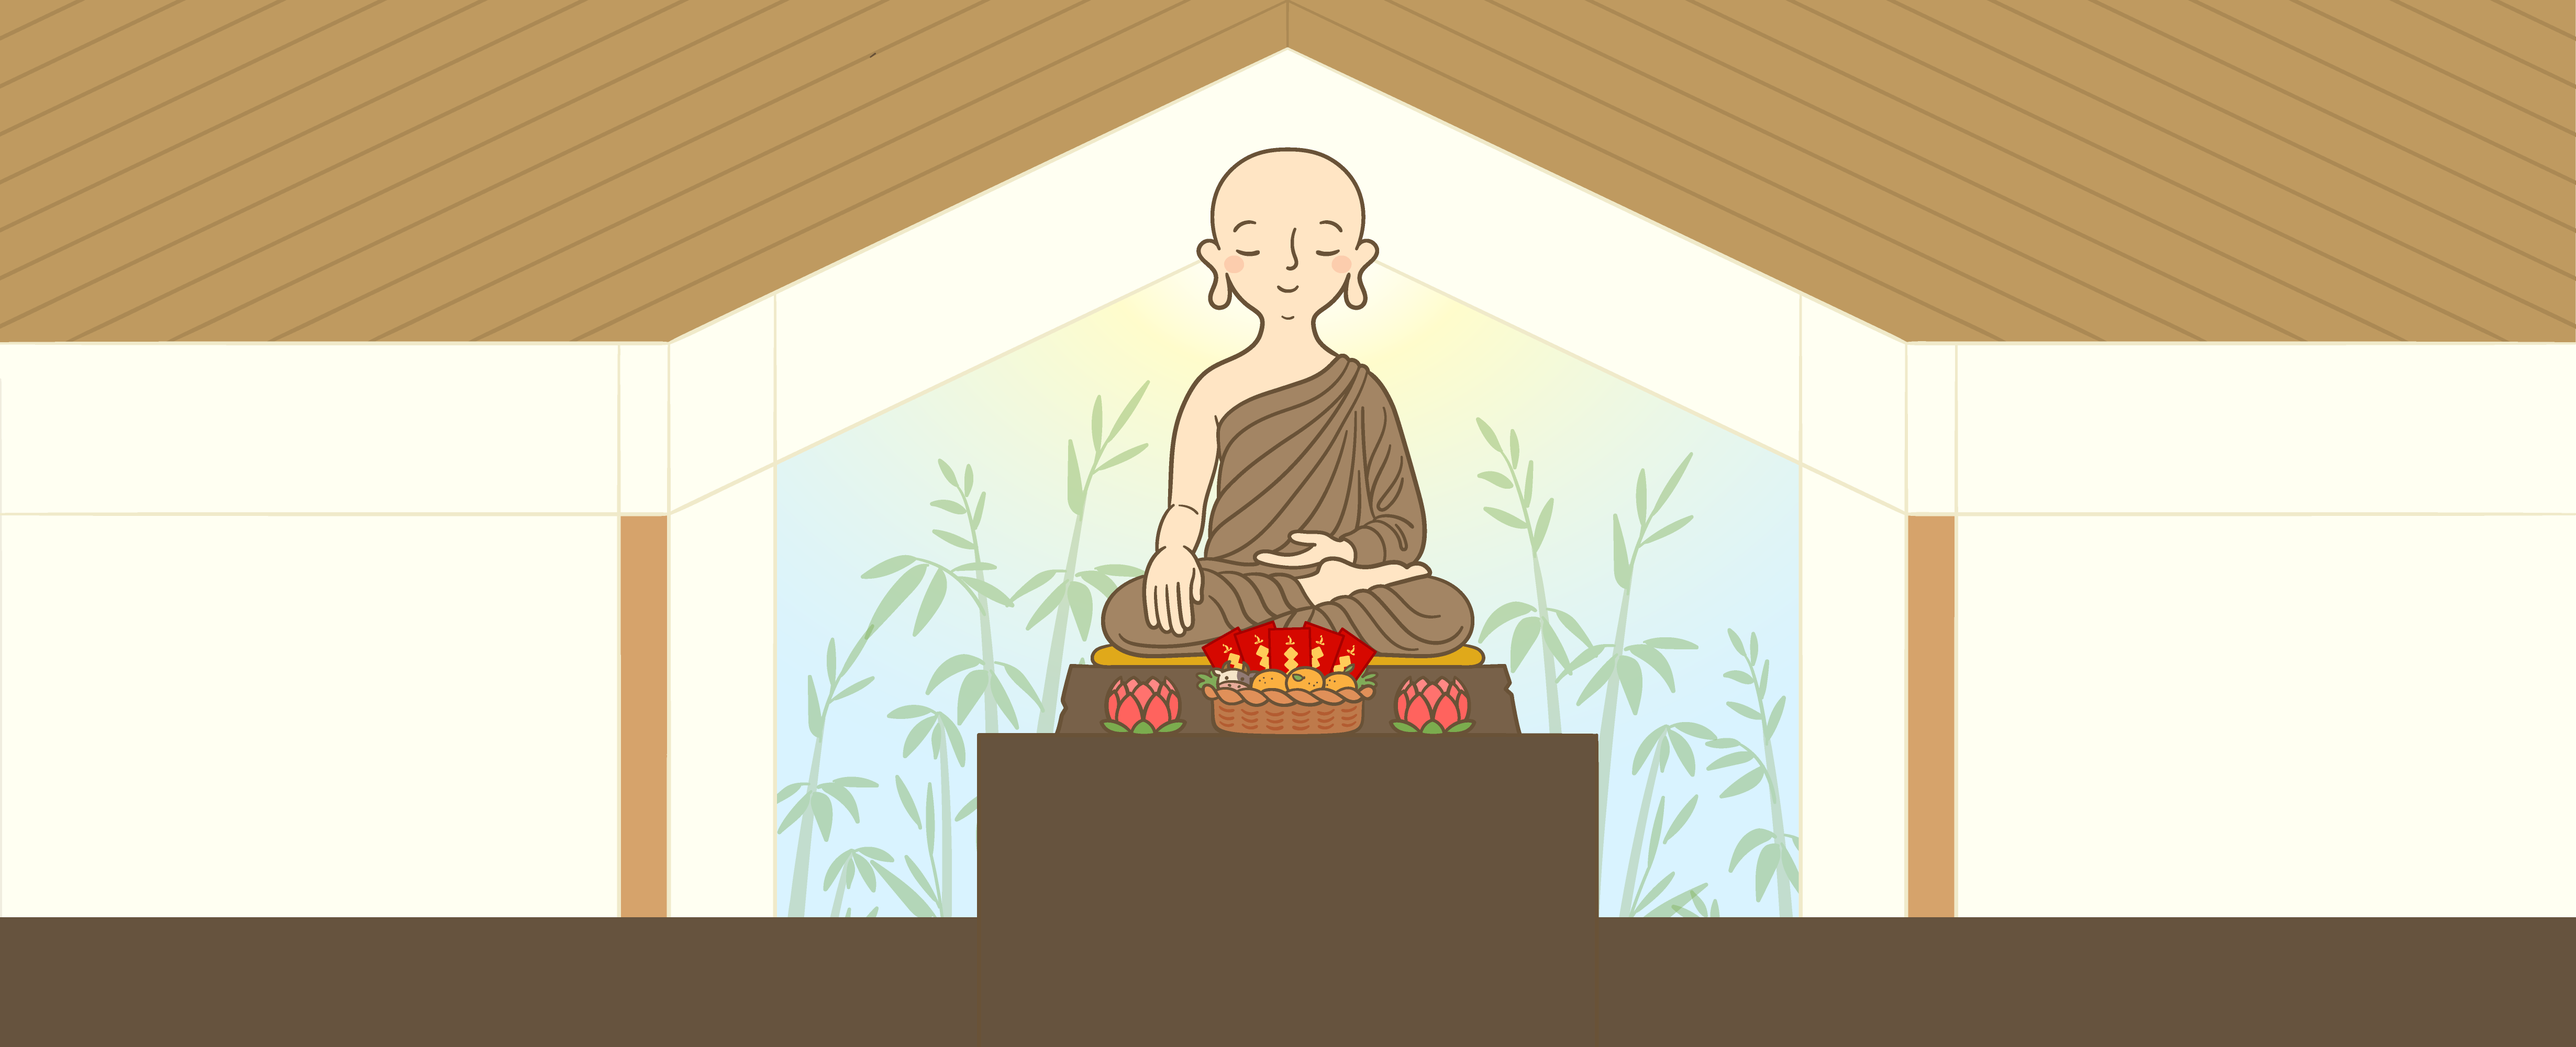
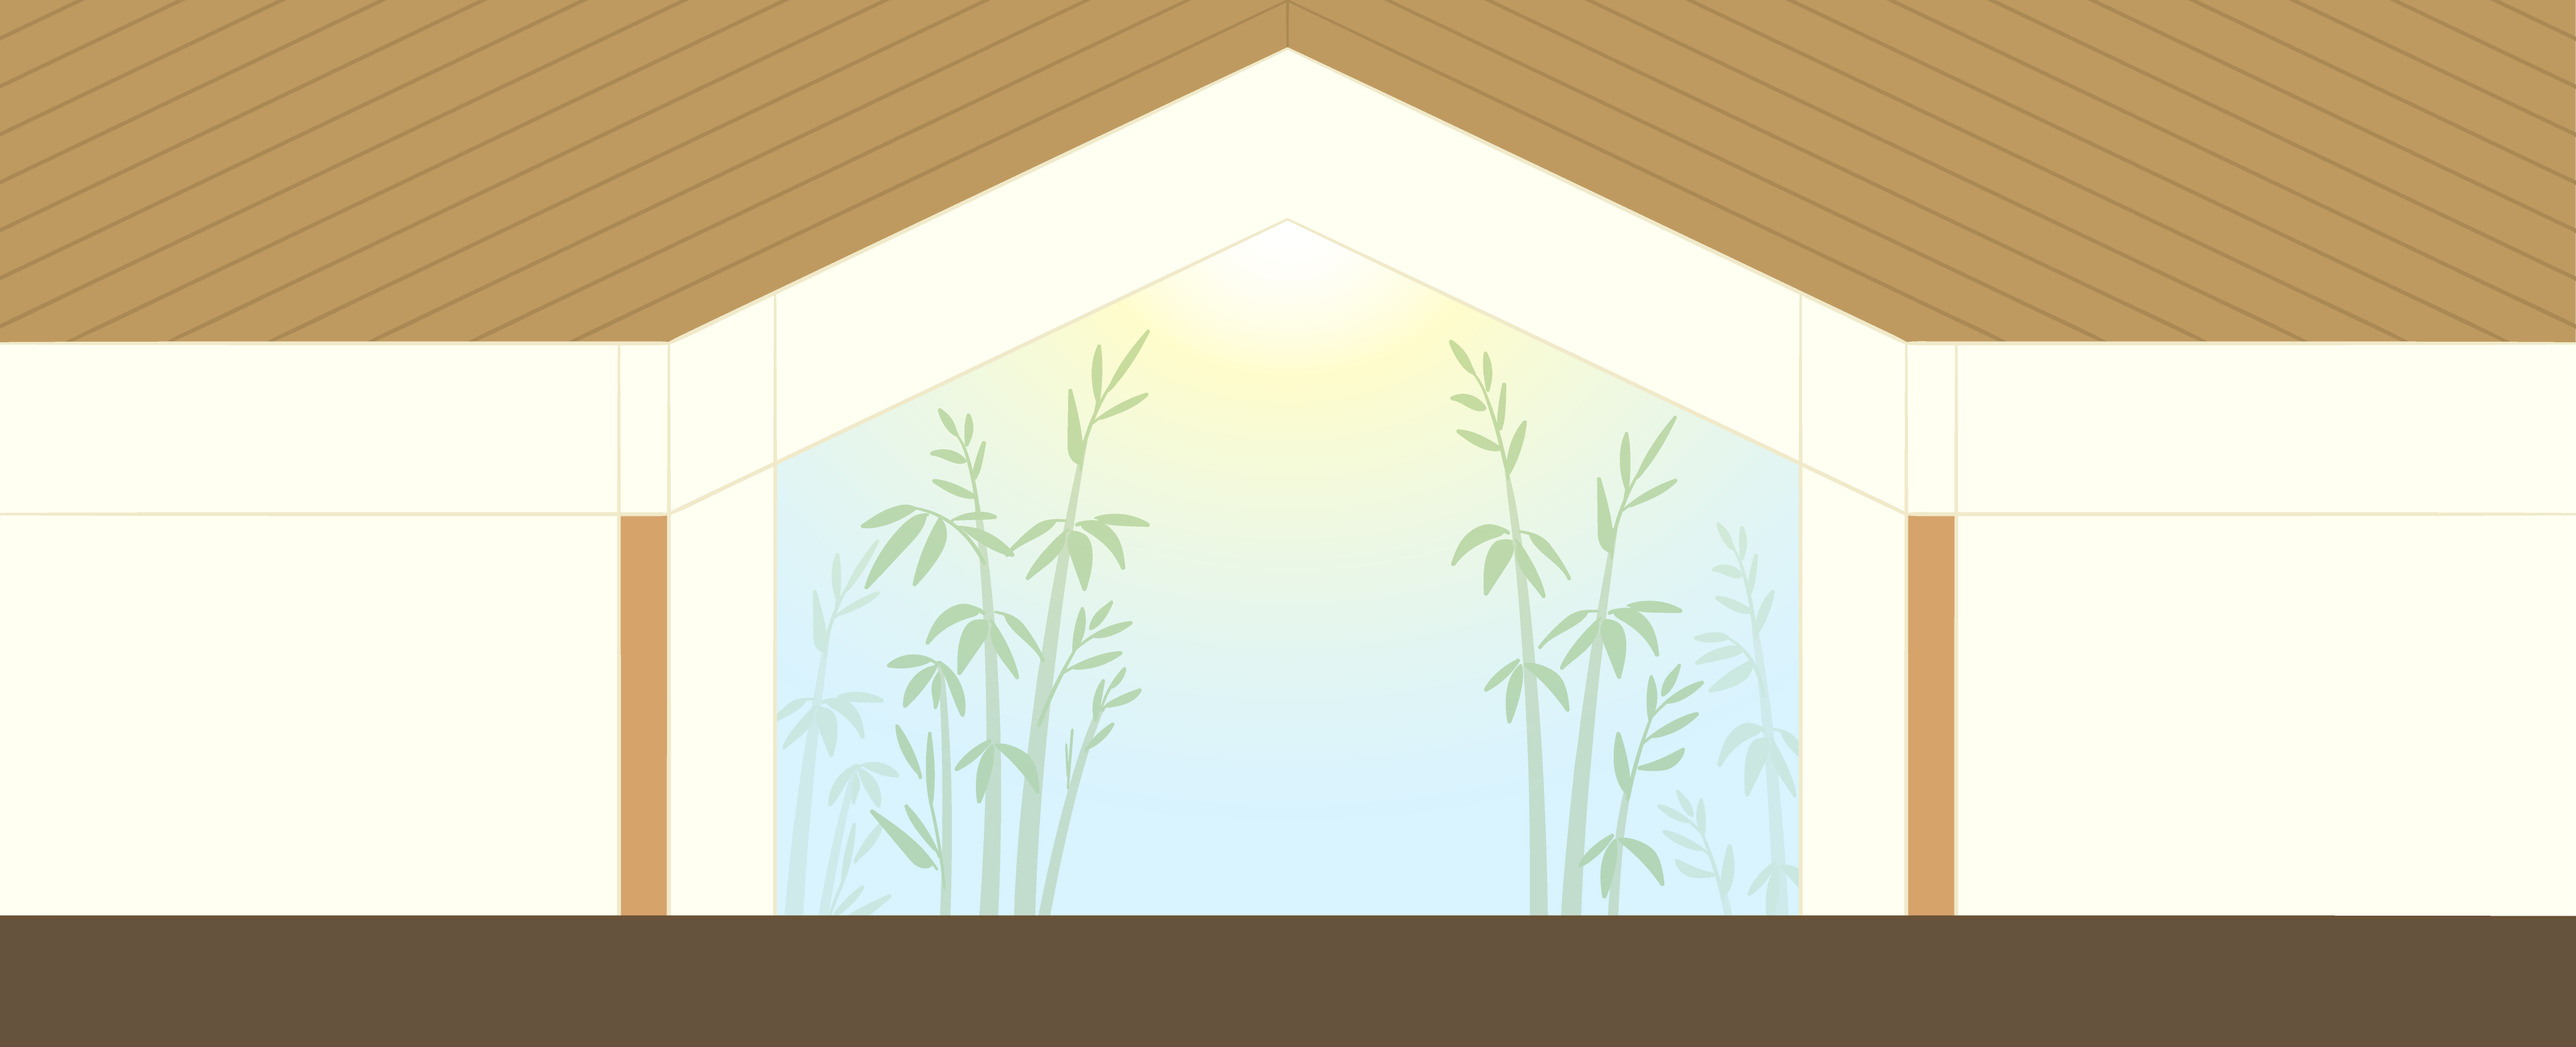
:sparkles: Adjust the background image

Changed region(s): [[0.2799, 0.1239, 0.7152, 0.8986]]

diff --git a/src/components/Steps.module.css b/src/components/Steps.module.css
@@ -88,6 +88,23 @@
   right: 0;
 }
 
+.BackgroundHigh:before {
+  content: '';
+  background-image: url('/background_1.png');
+
+  position: fixed;
+  display: block;
+
+  z-index: -1;
+
+  background-size: cover;
+  background-position: center;
+  background-repeat: no-repeat;
+  height: 100%;
+  left: 0;
+  right: 0;
+}
+
 .Buddha:before {
   content: '';
   background-image: url('/buddha-static.png');

diff --git a/src/components/Steps.js b/src/components/Steps.js
@@ -187,7 +187,10 @@ const Steps = () => {
   const [language, setLanguage] = useState('ch')
 
   return (
-    <div className={classes.Background} style={{ fontFamily: language }}>
+    <div
+      className={step === 0 ? classes.Background : classes.BackgroundHigh}
+      style={{ fontFamily: language }}
+    >
       <StepComponent
         step={step}
         setStep={setStep}
